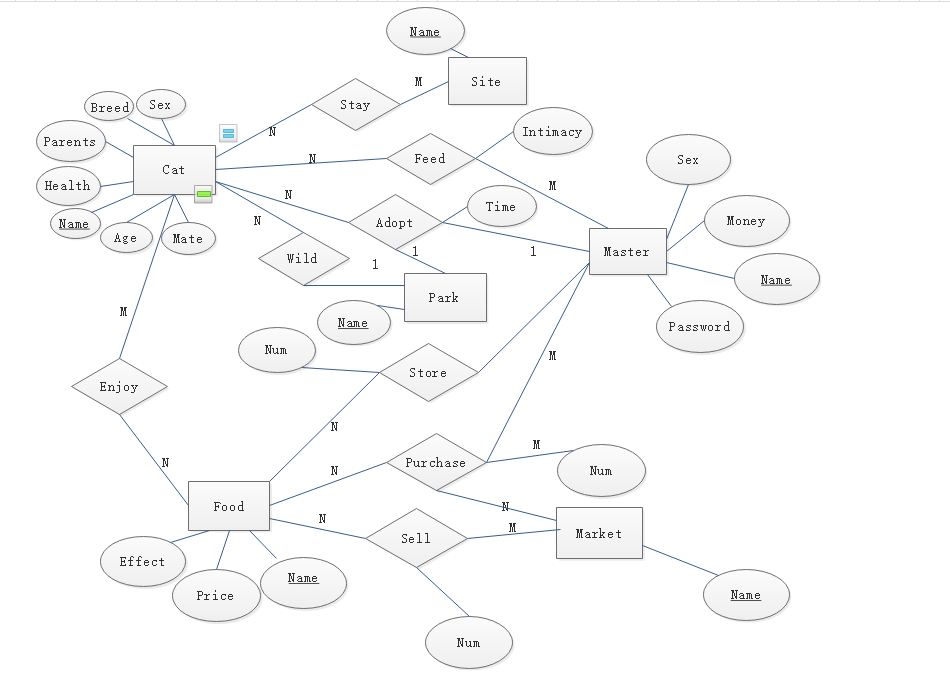
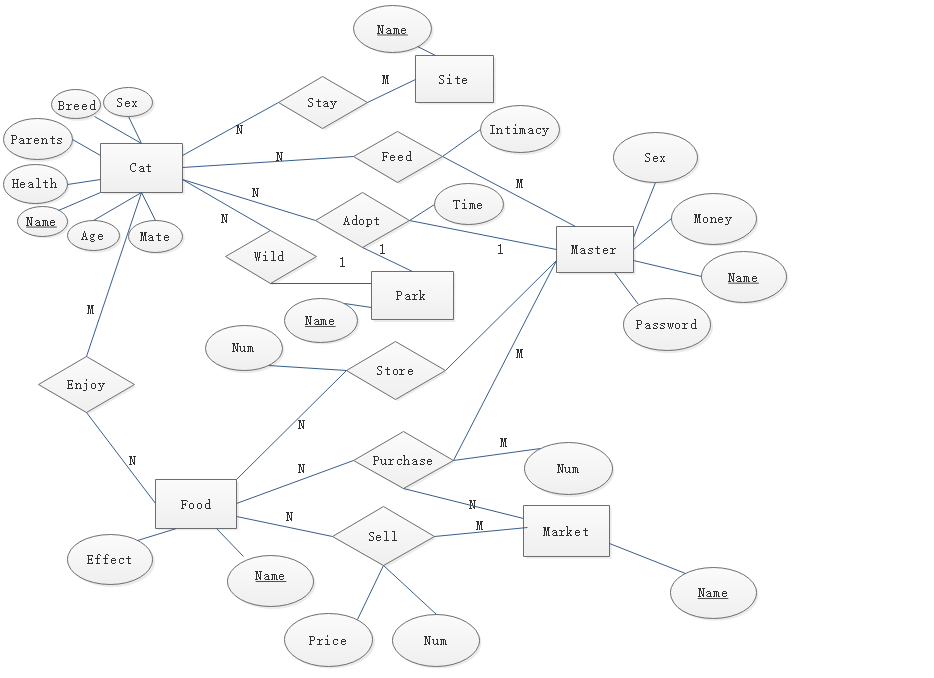
before imagefield

diff --git a/LuoXiangCatWorld/games/templates/games/parks.html b/LuoXiangCatWorld/games/templates/games/parks.html
@@ -1,6 +1,28 @@
 {% extends "template.html" %}
 {% load static %}
 {% block content %}
+<div class="mdc-card">
+  <div class="mdc-card__primary-action">
+    <div class="mdc-card__media mdc-card__media--square">
+      <div class="mdc-card__media-content">Title</div>
+    </div>
+    <!-- ... additional primary action content ... -->
+  </div>
+  <div class="mdc-card__actions">
+    <div class="mdc-card__action-buttons">
+      <button class="mdc-button mdc-card__action mdc-card__action--button">
+        <span class="mdc-button__label">Action 1</span>
+      </button>
+      <button class="mdc-button mdc-card__action mdc-card__action--button">
+        <span class="mdc-button__label">Action 2</span>
+      </button>
+    </div>
+    <div class="mdc-card__action-icons">
+      <button class="material-icons mdc-icon-button mdc-card__action mdc-card__action--icon" title="Share">share</button>
+      <button class="material-icons mdc-icon-button mdc-card__action mdc-card__action--icon" title="More options">more_vert</button>
+    </div>
+  </div>
+</div>
 <div>
     {% if park_list %}
     <ul>
@@ -12,19 +34,6 @@
         <p>No polls are available.</p>
     {% endif %}
 </div>
-<div>
-    Your Name:<br>
-    {{master.name}}<br>
-    Your money:<br>
-    {{master.money}}<br>
-    Your sex:<br>
-    {{master.sex}}<br>
-</div>
 <br>
 <br>
-<a href="/games/{{ master.id }}/">Back</a>
-<a href="/games/{{ master.id }}/cats/" style="font-family: serif">cats</a>
-<a href="/games/{{ master.id }}/parks/" style="font-family: serif">parks</a>
-<a href="/games/{{ master.id }}/sites/" style="font-family: serif">sites</a>
-<a href="/games/{{ master.id }}/markets/" style="font-family: serif">marktes</a>
 {% endblock %}

diff --git a/LuoXiangCatWorld/games/templates/template.html b/LuoXiangCatWorld/games/templates/template.html
@@ -17,9 +17,9 @@
         }
         </style>
     <script>
-        new MDCList(document.querySelector('.mdc-list'));
-        const select = new MDCSelect(document.querySelector('.mdc-select'));
-        select.listen('MDCSelect:change', () => {alert(`Selected option at index ${select.selectedIndex} with value "${select.value}"`);});
+        //new MDCList(document.querySelector('.mdc-list'));
+        //const select = new MDCSelect(document.querySelector('.mdc-select'));
+        //select.listen('MDCSelect:change', () => {alert(`Selected option at index ${select.selectedIndex} with value "${select.value}"`);});
         </script>
     <body>
         <div>

diff --git a/LuoXiangCatWorld/games/templates/games/park_detail.html b/LuoXiangCatWorld/games/templates/games/park_detail.html
@@ -9,7 +9,7 @@
     {% endfor %}
     <ul>
     {% else %}
-        <p>No polls are available.</p>
+        <p>You have nothing to feed these lovely cats.</p>
     {% endif %}
 </div>
 <div>
@@ -27,9 +27,5 @@
 </div>
 <br>
 <br>
-<a href="/games/{{ master.id }}/">Back</a>
-<a href="/games/{{ master.id }}/cats/" style="font-family: serif">cats</a>
-<a href="/games/{{ master.id }}/parks/" style="font-family: serif">parks</a>
-<a href="/games/{{ master.id }}/sites/" style="font-family: serif">sites</a>
-<a href="/games/{{ master.id }}/markets/" style="font-family: serif">markets</a>
+<a href="/games/{{ master.id }}/parks">Back</a>
 {% endblock %}

diff --git a/LuoXiangCatWorld/games/templates/games/market_detail.html b/LuoXiangCatWorld/games/templates/games/market_detail.html
@@ -2,16 +2,15 @@
 {% load static %}
 {% block content %}
 <div>
-    {% if market_list %}
+    {% if market_food %}
     <ul>
-    {% for market in market_list %}
-    <li><a href="/games/{{ master.id }}/markets/{{ market.id }}">{{ market.name }}</a></li>
+    {% for food in market_food %}
+    <li>{{ food.name }}{{ cat.price }}</li>
     {% endfor %}
     <ul>
     {% else %}
         <p>No polls are available.</p>
     {% endif %}
 </div>
-<br>
-<br>
+<a href="/games/{{ master.id }}/markets">Back</a>
 {% endblock %}

diff --git a/LuoXiangCatWorld/games/migrations/0001_initial.py b/LuoXiangCatWorld/games/migrations/0001_initial.py
@@ -1,4 +1,4 @@
-# Generated by Django 2.2 on 2019-04-07 11:21
+# Generated by Django 2.2 on 2019-04-11 06:45
 
 from django.db import migrations, models
 import django.db.models.deletion
@@ -21,7 +21,6 @@ class Migration(migrations.Migration):
                 ('birth', models.DateField(blank=True, null=True)),
                 ('age', models.IntegerField()),
                 ('breed', models.CharField(blank=True, max_length=20, null=True)),
-                ('intimacy', models.IntegerField()),
                 ('father', models.CharField(blank=True, max_length=10, null=True)),
                 ('mother', models.CharField(blank=True, max_length=10, null=True)),
                 ('mate', models.CharField(blank=True, max_length=10, null=True)),
@@ -36,11 +35,10 @@ class Migration(migrations.Migration):
             fields=[
                 ('id', models.AutoField(auto_created=True, primary_key=True, serialize=False, verbose_name='ID')),
                 ('name', models.CharField(max_length=20)),
-                ('price', models.IntegerField()),
                 ('effect', models.CharField(blank=True, max_length=100, null=True)),
             ],
             options={
-                'ordering': ['-price', 'name'],
+                'ordering': ['name'],
             },
         ),
         migrations.CreateModel(
@@ -59,7 +57,7 @@ class Migration(migrations.Migration):
                 ('id', models.AutoField(auto_created=True, primary_key=True, serialize=False, verbose_name='ID')),
                 ('name', models.CharField(help_text='Explore with a lovely name', max_length=20)),
                 ('sex', models.CharField(max_length=10)),
-                ('money', models.IntegerField()),
+                ('money', models.IntegerField(default=200)),
                 ('password', models.CharField(max_length=20)),
             ],
             options={
@@ -125,11 +123,12 @@ class Migration(migrations.Migration):
             fields=[
                 ('id', models.AutoField(auto_created=True, primary_key=True, serialize=False, verbose_name='ID')),
                 ('num', models.IntegerField()),
+                ('price', models.IntegerField()),
                 ('food', models.ForeignKey(null=True, on_delete=django.db.models.deletion.SET_NULL, to='games.Food')),
                 ('market', models.ForeignKey(null=True, on_delete=django.db.models.deletion.SET_NULL, to='games.Market')),
             ],
             options={
-                'ordering': ['-num'],
+                'ordering': ['price', '-num'],
             },
         ),
         migrations.CreateModel(
@@ -143,6 +142,18 @@ class Migration(migrations.Migration):
             ],
             options={
                 'ordering': ['-num', 'master'],
+            },
+        ),
+        migrations.CreateModel(
+            name='Feed',
+            fields=[
+                ('id', models.AutoField(auto_created=True, primary_key=True, serialize=False, verbose_name='ID')),
+                ('intimacy', models.IntegerField()),
+                ('cat', models.ForeignKey(null=True, on_delete=django.db.models.deletion.SET_NULL, to='games.Cat')),
+                ('master', models.ForeignKey(null=True, on_delete=django.db.models.deletion.SET_NULL, to='games.Master')),
+            ],
+            options={
+                'ordering': ['master', 'cat'],
             },
         ),
         migrations.CreateModel(

diff --git a/LuoXiangCatWorld/games/views.py b/LuoXiangCatWorld/games/views.py
@@ -35,20 +35,20 @@ def park_detail(request,master_id,park_id):
     master = get_object_or_404(Master, pk = master_id)
     master_store = Store.objects.filter(master = master)
     park_wild = Wild.objects.filter(park = park)
-    context = {'park': park, 'master_store': master_store, 'park_wild': park_wild}
+    context = {'park': park, 'master': master,'master_store': master_store, 'park_wild': park_wild}
     return render(request, 'games/park_detail.html', context)
 
 # path('<int:master_id>/sites/', views.sites, name='sites'),
-def sites(request,master_id):
-    site_list = Site.objects.order_by('-name')[:5]
-    master = get_object_or_404(Master, pk=master_id)
-    context = {'site_list': site_list,'master':master}
-    return render(request, 'games/sites.html', context)
+#def sites(request,master_id):
+#    site_list = Site.objects.order_by('-name')[:5]
+#    master = get_object_or_404(Master, pk=master_id)
+#    context = {'site_list': site_list,'master':master}
+#    return render(request, 'games/sites.html', context)
 
 # path('<int:master_id>/markets/', views.markets, name='markets'),
 def markets(request,master_id):
     market_list = Market.objects.order_by('-name')[:5]
-    master = get_object_or_404(Master, pk=master_id)
+    master = get_object_or_404(Master, pk = master_id)
     context = {'market_list': market_list,'master':master}
     return render(request, 'games/markets.html',context)
 
@@ -83,17 +83,32 @@ def login_func(request):
     else:
         return render(request,'games/login.html')
 
-def park_cat(request):
-    pass
+def park_cat(request, master_id, park_id, cat_id):
+    park = get_object_or_404(Park, pk = park_id)
+    master = get_object_or_404(Master, pk = master_id)
+    park_cat = get_object_or_404(Cat, pk = cat_id)
+    context={'park': park, 'master': master, 'park_cat': park_cat}
+    return render(request, 'games/park_cat.html', context)
 
-def cat_detail(request):
-    pass
+def cat_detail(request, master_id, cat_id):
+    master = get_object_or_404(Master, pk = master_id)
+    cat = get_object_or_404(Cat, pk = cat_id)
+    context={'master': master, 'cat': cat}
+    return render(request, 'games/cat_detail.html', context)
 
-def site_cat(request):
-    pass
+def site_cat(request, master_id, site_id, cat_id):
+    master = get_object_or_404(Master, pk = master_id)
+    cat_list = get_object_or_404(Cat, pk = cat_id)
+    site = get_object_or_404(Site, pk = site_id)
+    context={'master': master, 'cat_list': cat_list, 'site': site}
+    return render(request, 'games/site_cat.html', context)
 
-def market_food(request):
-    pass
+def market_detail(request, master_id, market_id):
+    master = get_object_or_404(Master, pk = master_id)
+    market = get_object_or_404(Market, pk = market_id)
+    market_food = Sell.objects.filter(market = market)
+    context={'master': master, 'market': market, 'market_food': market_food}
+    return render(request, 'games/market_detail.html', context)
 
-def site_detail(request):
-    pass
+#def site_detail(request, master_id, site_id):
+#    pass

diff --git a/LuoXiangCatWorld/games/urls.py b/LuoXiangCatWorld/games/urls.py
@@ -11,11 +11,11 @@ urlpatterns = [
     path('<int:master_id>/cats/', views.cats, name='cats'),
     path('<int:master_id>/parks/', views.parks, name='parks'),
     path('<int:master_id>/parks/<int:park_id>/', views.park_detail, name='park_detail'),
-    path('<int:master_id>/sites/', views.sites, name='sites'),
+    #path('<int:master_id>/sites/', views.sites, name='sites'),
     path('<int:master_id>/markets/', views.markets, name='markets'),
     path('<int:master_id>/parks/<int:park_id>/<int:cat_id>/', views.park_cat, name='park_cat'),
     path('<int:master_id>/cats/<int:cat_id>/', views.cat_detail, name='cat_detail'),
     path('<int:master_id>/sites/<int:site_id>/<int:cat_id>/', views.site_cat, name='site_cat'),
-    path('<int:master_id>/markets/<int:food_id>/', views.market_food, name='market_food'),
-    path('<int:master_id>/sites/<int:site_id>/', views.site_detail, name='site_detail'),
+    path('<int:master_id>/markets/<int:market_id>/', views.market_detail, name='market_detail'),
+    #path('<int:master_id>/sites/<int:site_id>/', views.site_detail, name='site_detail'),
 ]

diff --git a/LuoXiangCatWorld/games/models.py b/LuoXiangCatWorld/games/models.py
@@ -50,11 +50,10 @@ class Master(models.Model):
 class Food(models.Model):
     # food_id = models.UUIDField(primary_key=True, default=uuid.uuid4())
     name = models.CharField(max_length=20)
-    price = models.IntegerField()
     effect = models.CharField(max_length=100, blank=True, null=True)
 
     class Meta:
-        ordering = ["-price", "name"]
+        ordering = ["name"]
 
     def get_absolute_url(self):
         return reverse('model-detail-view', args=[str(self.id)])
@@ -187,9 +186,9 @@ class Sell(models.Model):
     food = models.ForeignKey('Food', on_delete=models.SET_NULL, null=True)
     market = models.ForeignKey('Market', on_delete=models.SET_NULL, null=True)
     num = models.IntegerField()
-
+    price = models.IntegerField()
     class Meta:
-        ordering = ["-num"]
+        ordering = ["price", "-num"]
 
     def get_absolute_url(self):
         return reverse('model-detail-view', args=[str(self.id)])

diff --git a/LuoXiangCatWorld/games/admin.py b/LuoXiangCatWorld/games/admin.py
@@ -30,7 +30,7 @@ class CatAdmin(admin.ModelAdmin):
     list_filter = ('health', 'birth')
 
 class FoodAdmin(admin.ModelAdmin):
-    list_display = ('name', 'price', 'effect')
+    list_display = ('name', 'effect')
 
 admin.site.register(Food, FoodAdmin)
 
